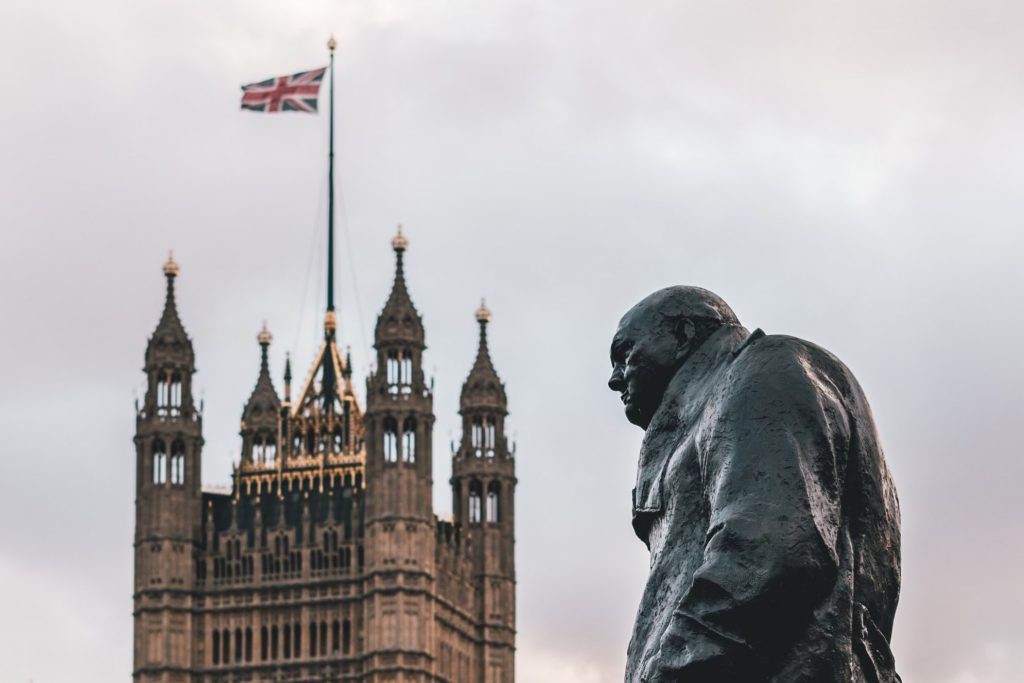
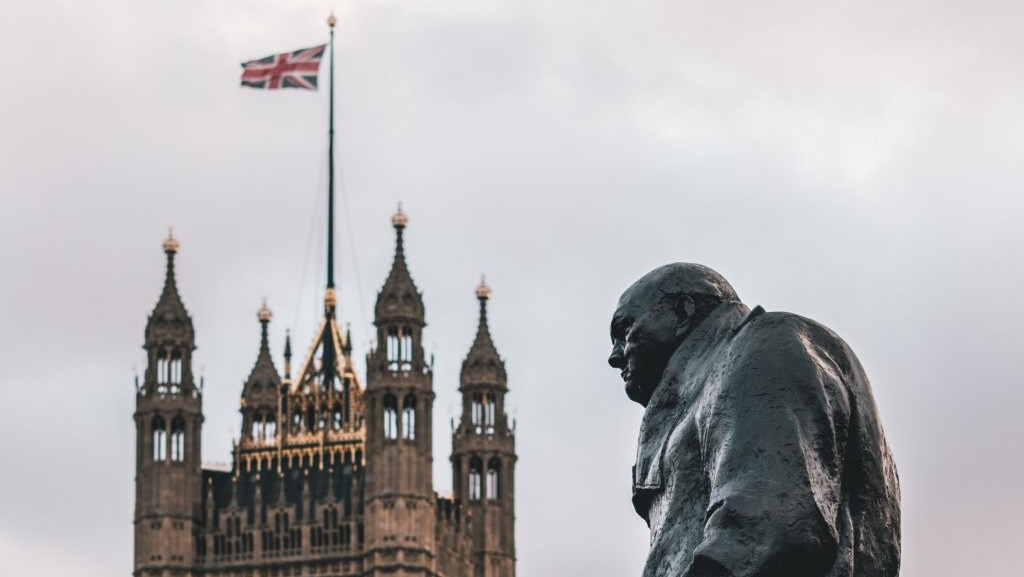
Test

diff --git a/index.html b/index.html
@@ -2331,7 +2331,7 @@
   
 </ul>
 
-      <p class="people-interests">Working with Chiara Cammarota, Nishanth Sastry and Reimer Kühn</p>
+      <p class="people-interests">Working with Chiara Cammarotta, Nishanth Sastry and Reimer Kühn</p>
     </div>
   </div>
   
@@ -2781,7 +2781,7 @@
     
     
     <a href="http://quantlaw.co.uk/" target="_blank" rel="noopener" class="card-image hover-overlay">
-      <img src="/project/ql/featured_hu3d770b48e0167acefe239d1ae027e42e_64789_550x0_resize_q75_lanczos.jpg" alt="Quantitative and Digital Law Lab" class="img-responsive" loading="lazy">
+      <img src="/project/ql/featured_hu6b7664f523075193f9f11d79c1c9dcfa_74628_550x0_resize_q75_lanczos.jpg" alt="Quantitative and Digital Law Lab" class="img-responsive" loading="lazy">
     </a>
     
     <div class="card-text">
@@ -2970,7 +2970,7 @@
     
     
     <a href="/project/pin/"  class="card-image hover-overlay">
-      <img src="/project/pin/featured_hu3d03a01dcc18bc5be0e67db3d8d209a6_224363_550x0_resize_q75_lanczos.jpg" alt="Protein interaction network" class="img-responsive" loading="lazy">
+      <img src="/project/pin/featured_hu6b7664f523075193f9f11d79c1c9dcfa_44442_550x0_resize_q75_lanczos.jpg" alt="Protein interaction network" class="img-responsive" loading="lazy">
     </a>
     
     <div class="card-text">

diff --git a/project/pin/index.html b/project/pin/index.html
@@ -838,8 +838,6 @@
 
   
   
-    
-  
 
 
 <div class="article-container pt-3">
@@ -890,9 +888,9 @@
 </div>
 
 
-<div class="article-header article-container featured-image-wrapper mt-4 mb-4" style="max-width: 720px; max-height: 405px;">
+<div class="article-header article-container featured-image-wrapper mt-4 mb-4" style="max-width: 417px; max-height: 235px;">
   <div style="position: relative">
-    <img src="/project/pin/featured_hu3d03a01dcc18bc5be0e67db3d8d209a6_224363_720x0_resize_q75_lanczos.jpg" alt="" class="featured-image">
+    <img src="/project/pin/featured.jpg" alt="" class="featured-image">
     <span class="article-header-caption">Photo by rawpixel on Unsplash</span>
   </div>
 </div>

diff --git a/project/ql/index.html b/project/ql/index.html
@@ -944,9 +944,9 @@
 </div>
 
 
-<div class="article-header article-container featured-image-wrapper mt-4 mb-4" style="max-width: 720px; max-height: 480px;">
+<div class="article-header article-container featured-image-wrapper mt-4 mb-4" style="max-width: 720px; max-height: 406px;">
   <div style="position: relative">
-    <img src="/project/ql/featured_hu3d770b48e0167acefe239d1ae027e42e_64789_720x0_resize_q75_lanczos.jpg" alt="" class="featured-image">
+    <img src="/project/ql/featured_hu6b7664f523075193f9f11d79c1c9dcfa_74628_720x0_resize_q75_lanczos.jpg" alt="" class="featured-image">
     <span class="article-header-caption">Photo by rawpixel on Unsplash</span>
   </div>
 </div>
